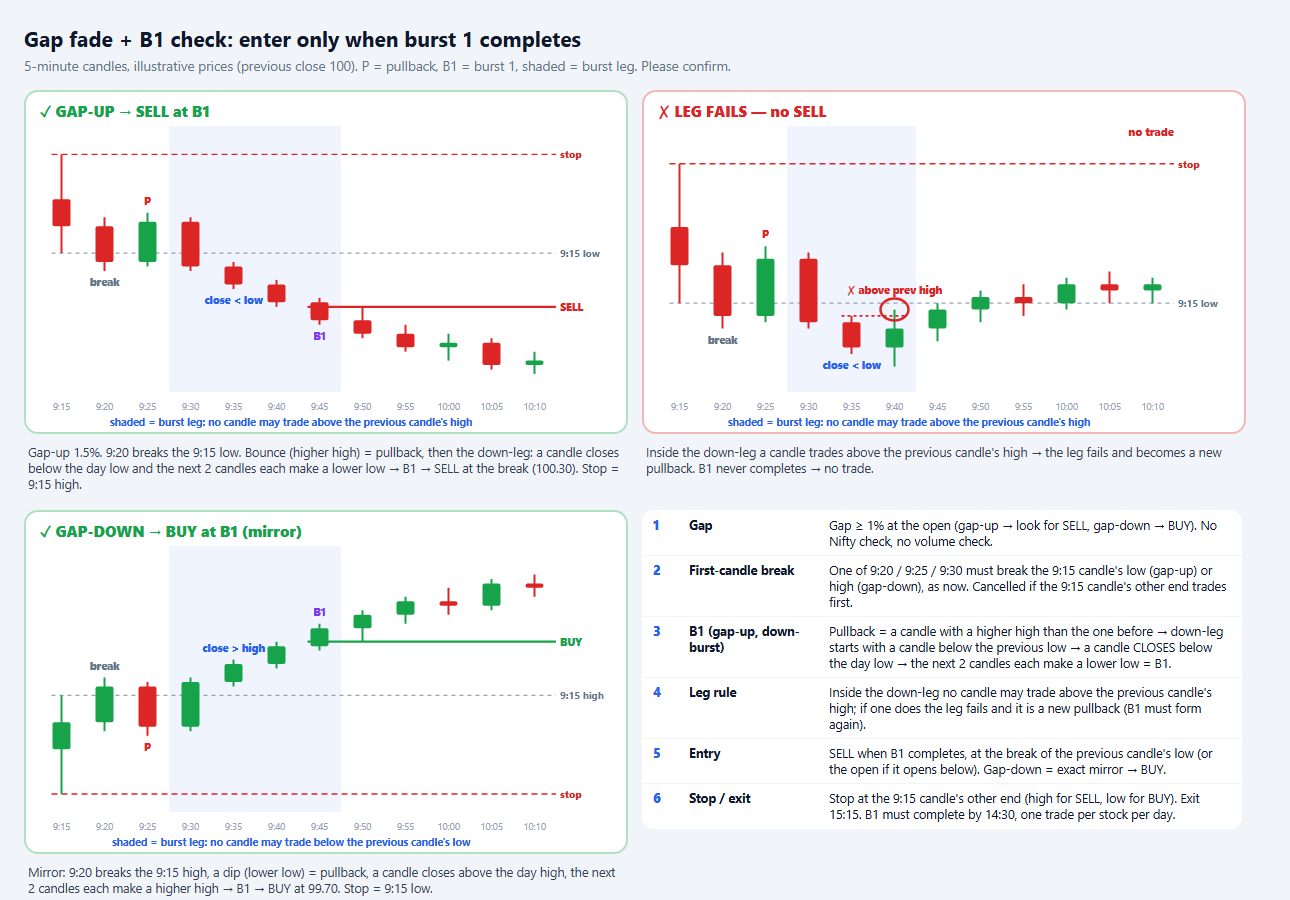
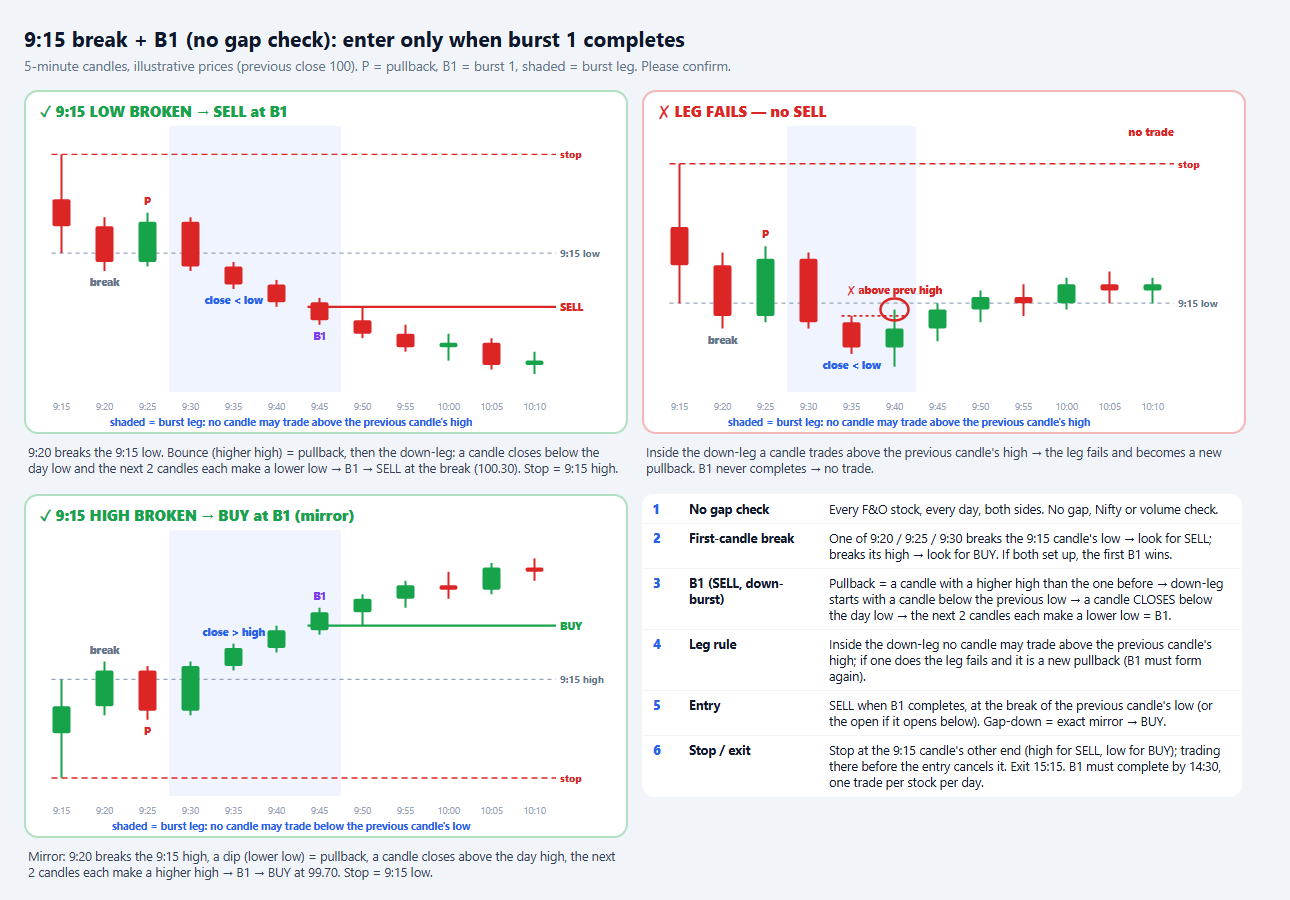
improvement

diff --git a/server/autoTrader.js b/server/autoTrader.js
@@ -127,15 +127,17 @@ function describeStrategies(settings) {
   const window = clockLabel(breakWindowEnd(settings));
   return {
     gap: {
-      label: "Gap fade",
+      label: "9:15 break + B1",
       type: "Intraday",
       rules: [
-        `Gap ≥ ${settings.orbMinGapPct}% at the open`,
-        `A candle breaks the 9:15 candle's low before ${window} (gap-down: its high)`,
-        "Then B1 against the gap: pullback (higher high) → a candle closes below the day low → next 2 candles each make a lower low; no candle above the previous high inside the leg",
-        "SELL when B1 completes (gap-down: mirror → BUY) · entries until 14:30",
-        "Cancelled if the 9:15 candle's other end trades before the entry",
-        "Stop: the 9:15 candle's other end · exit 15:15",
+        "Every F&O stock, every day — no gap check, both sides",
+        `A candle breaks the 9:15 candle's low before ${window} → look for SELL (breaks its high → BUY)`,
+        "Pullback: one or more candles against the trade (BUY: lower lows · SELL: higher highs) — any number allowed",
+        "Recovery starts at the first candle beyond the previous candle's high (BUY) / low (SELL)",
+        "From then until B1 completes no candle may break the previous candle's low (BUY) / high (SELL), else the leg fails and it is a new pullback",
+        "B1: a candle closes above the day high (BUY) / below the day low (SELL), then the next 2 candles each break the previous high / low → enter there",
+        "Entries until 14:30 · one trade per stock per day",
+        "Cancelled if the 9:15 candle's other end trades before the entry · stop there · exit 15:15",
       ],
     },
     pullback: {
@@ -672,60 +674,55 @@ export function createAutoTrader({ kite, withKiteAuth, getInstruments, sendTeleg
     return null;
   }
 
-  // Gap fade: a candle in the break window crosses the 9:15 candle's low (gap-up) / high (gap-down), then
-  // enter when burst 1 against the gap completes. Stop at the 9:15 candle's other end.
+  // 9:15 break + B1, any stock, any day (no gap check), both sides: a candle in the break window crosses the
+  // 9:15 candle's low -> wait for a down-burst B1 -> SELL; or crosses its high -> up-burst B1 -> BUY. Trading
+  // through the 9:15 candle's other end before the entry cancels that side; the stop is that other end. When
+  // both sides set up, the one whose B1 completes first is taken (one trade per stock per day).
   function replayGap(stock, session, niftyChangeAt) {
     const { settings } = state;
-    const [c1, c2] = session.today;
-    if (!c1 || !c2 || !session.prev.length) return null;
+    const { today } = session;
+    const c1 = today[0];
+    if (!c1 || today.length < 2 || !session.prev.length) return null;
     const prevClose = session.prev[session.prev.length - 1].close;
     const gapPct = ((c1.open - prevClose) / prevClose) * 100;
-    if (Math.abs(gapPct) < settings.orbMinGapPct || Math.abs(gapPct) >= settings.orbMaxGapPct) return null;
 
-    const side = gapPct > 0 ? "short" : "long";
-    const short = side === "short";
-    const level = short ? c1.low : c1.high;
-    const stopLevel = short ? c1.high : c1.low;
-    let entryIdx = null;
-    let entry;
-    if (settings.orbEntry === "break") {
+    let best = null;
+    for (const short of [true, false]) {
+      const level = short ? c1.low : c1.high;
+      const stopLevel = short ? c1.high : c1.low;
+      let breakIdx = null;
       // the break may come on any of the next orbBreakCandles candles; crossing the stop side first cancels it
-      for (let k = 1; k <= settings.orbBreakCandles && k < session.today.length; k += 1) {
-        const c = session.today[k];
+      for (let k = 1; k <= settings.orbBreakCandles && k < today.length; k += 1) {
+        const c = today[k];
         if (short ? c.low < level : c.high > level) {
-          entryIdx = k;
-          entry = short ? Math.min(level, c.open) : Math.max(level, c.open);
+          breakIdx = k;
           break;
         }
-        if (short ? c.high > stopLevel : c.low < stopLevel) return null;
+        if (short ? c.high > stopLevel : c.low < stopLevel) break;
       }
-      if (entryIdx == null) return null;
-    } else {
-      if (!(short ? c2.close < level : c2.close > level)) return null;
-      entryIdx = 1;
-      entry = c2.close;
+      if (breakIdx == null) continue;
+      const burst = findGapBurst(today, breakIdx + 1, short, stopLevel);
+      if (burst && (!best || burst.idx < best.idx)) best = { ...burst, short, stopLevel };
     }
-    const burst = findGapBurst(session.today, entryIdx + 1, short, stopLevel);
-    if (!burst) return null;
-    entryIdx = burst.idx;
-    entry = burst.price;
-    const breakCandle = session.today[entryIdx];
-    // Nifty measured at the breakout candle's close, as in the backtest
-    const nifty = niftyCheck(side, niftyChangeAt(breakCandle.date));
+    if (!best) return null;
+
+    const side = best.short ? "short" : "long";
+    // Nifty measured at the entry candle (off in paper unless AUTOTRADE_NIFTY_FILTER=true)
+    const nifty = niftyCheck(side, niftyChangeAt(today[best.idx].date));
     if (!nifty.ok) return null;
     return paperPosition({
       stock,
       session,
-      strategy: short ? "GAP-UP SELL" : "GAP-DOWN BUY",
+      strategy: best.short ? "B1 SELL" : "B1 BUY",
       strategyKey: "gap",
       side,
-      entryIdx,
-      fromIdx: entryIdx + 1,
-      entry,
+      entryIdx: best.idx,
+      fromIdx: best.idx + 1,
+      entry: best.price,
       refDistance: c1.high - c1.low,
-      stopPrice: side === "short" ? c1.high : c1.low,
+      stopPrice: best.stopLevel,
       rr: settings.orbRR,
-      reason: [`gap ${gapPct.toFixed(2)}%`, "B1", nifty.text].filter(Boolean).join(", "),
+      reason: [`9:15 ${best.short ? "low" : "high"} broken, B1`, `open ${gapPct >= 0 ? "+" : ""}${gapPct.toFixed(2)}%`, nifty.text].filter(Boolean).join(", "),
     });
   }
 
@@ -1032,31 +1029,6 @@ export function createAutoTrader({ kite, withKiteAuth, getInstruments, sendTeleg
     }
   }
 
-  // 9:20 heads-up: the stocks that gapped and the 9:15 level that must break first; the entry itself comes later,
-  // when burst 1 against the gap completes (a separate alert).
-  async function sendWatchlistAlert() {
-    const { settings } = state;
-    let niftyText = "";
-    if (settings.niftyFilter) {
-      const change = await getNiftyChange().catch(() => null);
-      niftyText = change == null ? "" : ` Nifty now ${change >= 0 ? "+" : ""}${change.toFixed(2)}%.`;
-    }
-    if (!state.orbCandidates.length) {
-      sendAlert(`👀 9:20 watchlist: no stock gapped ≥ ${settings.orbMinGapPct}% today.${niftyText}`);
-      return;
-    }
-    const lines = state.orbCandidates.map((c) =>
-      c.side === "short"
-        ? `🔴 ${c.symbol} gap +${c.gapPct.toFixed(2)}% · watch for a break below ${money(c.level)}, then B1 → SELL · stop ${money(c.stopLevel)}`
-        : `🟢 ${c.symbol} gap ${c.gapPct.toFixed(2)}% · watch for a break above ${money(c.level)}, then B1 → BUY · stop ${money(c.stopLevel)}`
-    );
-    const until = clockLabel(breakWindowEnd(settings));
-    const rule = settings.niftyFilter
-      ? `The 9:15 level must break before ${until} without trading through the stop first; the trade alert comes when B1 completes, and Nifty is not more than ${settings.niftyMaxAgainstPct}% in the gap's direction.`
-      : `The 9:15 level must break before ${until} without trading through the stop first; the trade alert comes when B1 completes (no order at the break).`;
-    sendAlert([`👀 9:20 watchlist (${state.orbCandidates.length})`, ...lines, rule + niftyText].join("\n"));
-  }
-
   async function replayPaperSession(now, marketOpen) {
     const { day, positions } = await computeSessionSignals(now, {
       marketOpen,
@@ -1074,11 +1046,6 @@ export function createAutoTrader({ kite, withKiteAuth, getInstruments, sendTeleg
 
   async function paperTick(now) {
     const marketOpen = now.weekday >= 1 && now.weekday <= 5 && now.minute >= 9 * 60 + 15 && now.minute <= 15 * 60 + 30;
-    const watchlistWindow = now.minute > 9 * 60 + 20 || (now.minute === 9 * 60 + 20 && now.second >= 5);
-    if (marketOpen && state.activeStrategies.has("gap") && !state.orbPrepared && watchlistWindow && now.minute < breakWindowEnd(state.settings)) {
-      await prepareOrb();
-      await sendWatchlistAlert();
-    }
     // during market hours: once per completed 5-min candle; otherwise once per calendar day
     const key = marketOpen ? `${now.dateKey}-${now.minute - (now.minute % 5)}` : `closed-${now.dateKey}`;
     if (key === state.lastReplayKey || (marketOpen && now.second < 5)) return;

diff --git a/server/backtest/run.js b/server/backtest/run.js
@@ -114,12 +114,13 @@ function simulate({ candles, entryIdx, side, stop }) {
 // opts.niftyMax:        skip when Nifty moves with the gap by more than this % (null = no check)
 // opts.skipPrevMovePct: skip when the stock already moved this much yesterday in the gap's direction
 // opts.b1:              after the break, wait for burst 1 against the gap (see findGapBurst) and enter there
+// opts.side:            trade this side whatever the gap (no gap check); used by anySideTrade
 function gapFadeTrade({ symbol, day, candles, prevClose, prevDayChange, niftyChange }, opts) {
   const c1 = candles[0];
   const gapPct = ((c1.open - prevClose) / prevClose) * 100;
-  if (Math.abs(gapPct) < (opts.minGap ?? MIN_GAP_PCT)) return null;
+  if (!opts.side && Math.abs(gapPct) < (opts.minGap ?? MIN_GAP_PCT)) return null;
 
-  const side = gapPct > 0 ? "short" : "long";
+  const side = opts.side ?? (gapPct > 0 ? "short" : "long");
   const short = side === "short";
 
   // a second strong move in a row is more often news or momentum than an overreaction
@@ -228,6 +229,13 @@ function findGapBurst(candles, from, short, stop, lastEntryMinute) {
     extreme = Math.max(extreme, c.high);
   }
   return null;
+}
+
+// No gap check: try both sides (break of the 9:15 low -> SELL, of its high -> BUY) and take the one that
+// enters first; one trade per stock per day.
+function anySideTrade(ctx, opts) {
+  const tries = ["short", "long"].map((side) => gapFadeTrade(ctx, { ...opts, side })).filter(Boolean);
+  return tries.sort((a, b) => a.time.localeCompare(b.time))[0] ?? null;
 }
 
 // ---------- strategy 2: gap fade with pullback confirmation ----------
@@ -499,7 +507,9 @@ function main() {
     { name: "Gap >= 1% fade, break within 3 candles, Nifty check 0.4%", niftyMax: 0.4, breakCandles: 3 },
     { name: "Gap >= 1% fade, break within 3 candles, Nifty check 0.2%", niftyMax: 0.2, breakCandles: 3 },
     // after the break, enter only when burst 1 against the gap completes (paper signals)
-    { name: "Gap >= 1% fade, break within 3 candles, then B1 -> entry at B1, NO Nifty check (paper signals)", niftyMax: null, breakCandles: 3, b1: true },
+    // no gap check, both sides: break of the 9:15 low/high within 3 candles, then B1 (paper signals)
+    { name: "NO GAP CHECK: any stock, break of 9:15 low/high within 3 candles, then B1 -> entry at B1, NO Nifty check (paper signals)", niftyMax: null, breakCandles: 3, b1: true, anySide: true },
+    { name: "Gap >= 1% fade, break within 3 candles, then B1 -> entry at B1, NO Nifty check", niftyMax: null, breakCandles: 3, b1: true },
     { name: "Gap >= 1% fade, break within 3 candles, then B1 -> entry at B1, Nifty check 0.4%", niftyMax: 0.4, breakCandles: 3, b1: true },
     // Test 1: only big gaps
     { name: "TEST 1: Gap >= 4% fade, Nifty check 0.4%", minGap: 4, niftyMax: 0.4 },
@@ -537,7 +547,7 @@ function main() {
       const prevDayChange = twoDaysAgo ? ((prevClose - twoDaysAgo[twoDaysAgo.length - 1].close) / twoDaysAgo[twoDaysAgo.length - 1].close) * 100 : null;
       const ctx = { symbol, day, candles, prevClose, prevDayChange, niftyChange };
       for (const v of variants) {
-        const t = gapFadeTrade(ctx, v);
+        const t = v.anySide ? anySideTrade(ctx, v) : gapFadeTrade(ctx, v);
         if (t) trades[v.name].push(t);
       }
       for (const v of pullbackVariants) {

diff --git a/src/analysis/stockSignalHistory.js b/src/analysis/stockSignalHistory.js
@@ -24,7 +24,7 @@ import TwoDayChart from './twoDayChart';
 import DailyHoldChart from './dailyHoldChart';
 
 const STRATEGY_TABS = [
-    { key: 'gap', label: 'Gap fade' },
+    { key: 'gap', label: '9:15 break + B1' },
     { key: 'pullback', label: 'Gap + pullback' },
     { key: 'swing', label: '3-burst swing (15 days)' },
 ];
@@ -227,7 +227,7 @@ const StockSignalHistory = ({ instrumentToken, stockName, onClose }) => {
                 {!loading && data && (
                     <>
                         <Box sx={{ display: 'grid', gridTemplateColumns: { xs: 'repeat(2, minmax(0, 1fr))', md: 'repeat(3, minmax(0, 1fr))', xl: 'repeat(6, minmax(0, 1fr))' }, gap: 1.5 }}>
-                            <StatCard label="Signals" value={summary.signals} hint={swing ? `3-burst days in ${data.tradingDays} sessions` : `${data.gapDays} gap days in ${data.tradingDays} sessions`} />
+                            <StatCard label="Signals" value={summary.signals} hint={swing ? `3-burst days in ${data.tradingDays} sessions` : strategy === 'gap' ? `in ${data.tradingDays} sessions (no gap check)` : `${data.gapDays} gap days in ${data.tradingDays} sessions`} />
                             <StatCard label="Win rate" value={summary.winRate == null ? '-' : `${summary.winRate}%`} color="#b45309" hint={`${summary.wins} winners`} />
                             <StatCard label="Paper P&L" value={money(summary.totalPnl)} color={tone(summary.totalPnl)} hint="before charges" />
                             {swing ? (
